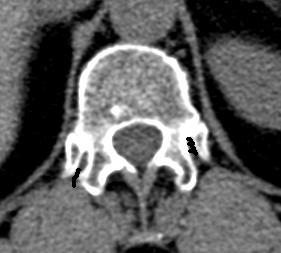
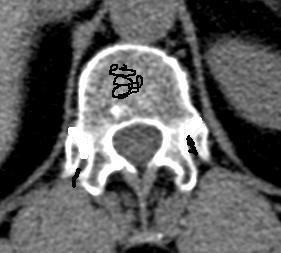
delete lines for eraser :)

diff --git a/Segmentation/Paint.py b/Segmentation/Paint.py
@@ -172,14 +172,14 @@ class Window(QMainWindow):
         if event.buttons() and QtCore.Qt.LeftButton and self.drawing:
             painter = QtGui.QPainter(self.imageDraw)
             painter.setPen(QtGui.QPen(self.brushColor, self.brushSize, QtCore.Qt.SolidLine, QtCore.Qt.RoundCap, QtCore.Qt.RoundJoin))
-            if self.change:
-                r = QtCore.QRect(QtCore.QPoint(), self._clear_size*QtCore.QSize())
+            if not self.change:
+                """r = QtCore.QRect(QtCore.QPoint(), self._clear_size*QtCore.QSize())
                 r.moveCenter(event.pos())
                 painter.save()
                 painter.setCompositionMode(QtGui.QPainter.CompositionMode_Clear)
                 painter.eraseRect(r)
-                painter.restore()
-            else:
+                painter.restore()"""
+            #else:
                 # Scale the point according to windows size
                 newX = event.x() / self.scale_x
                 newY = event.y() / self.scale_y
